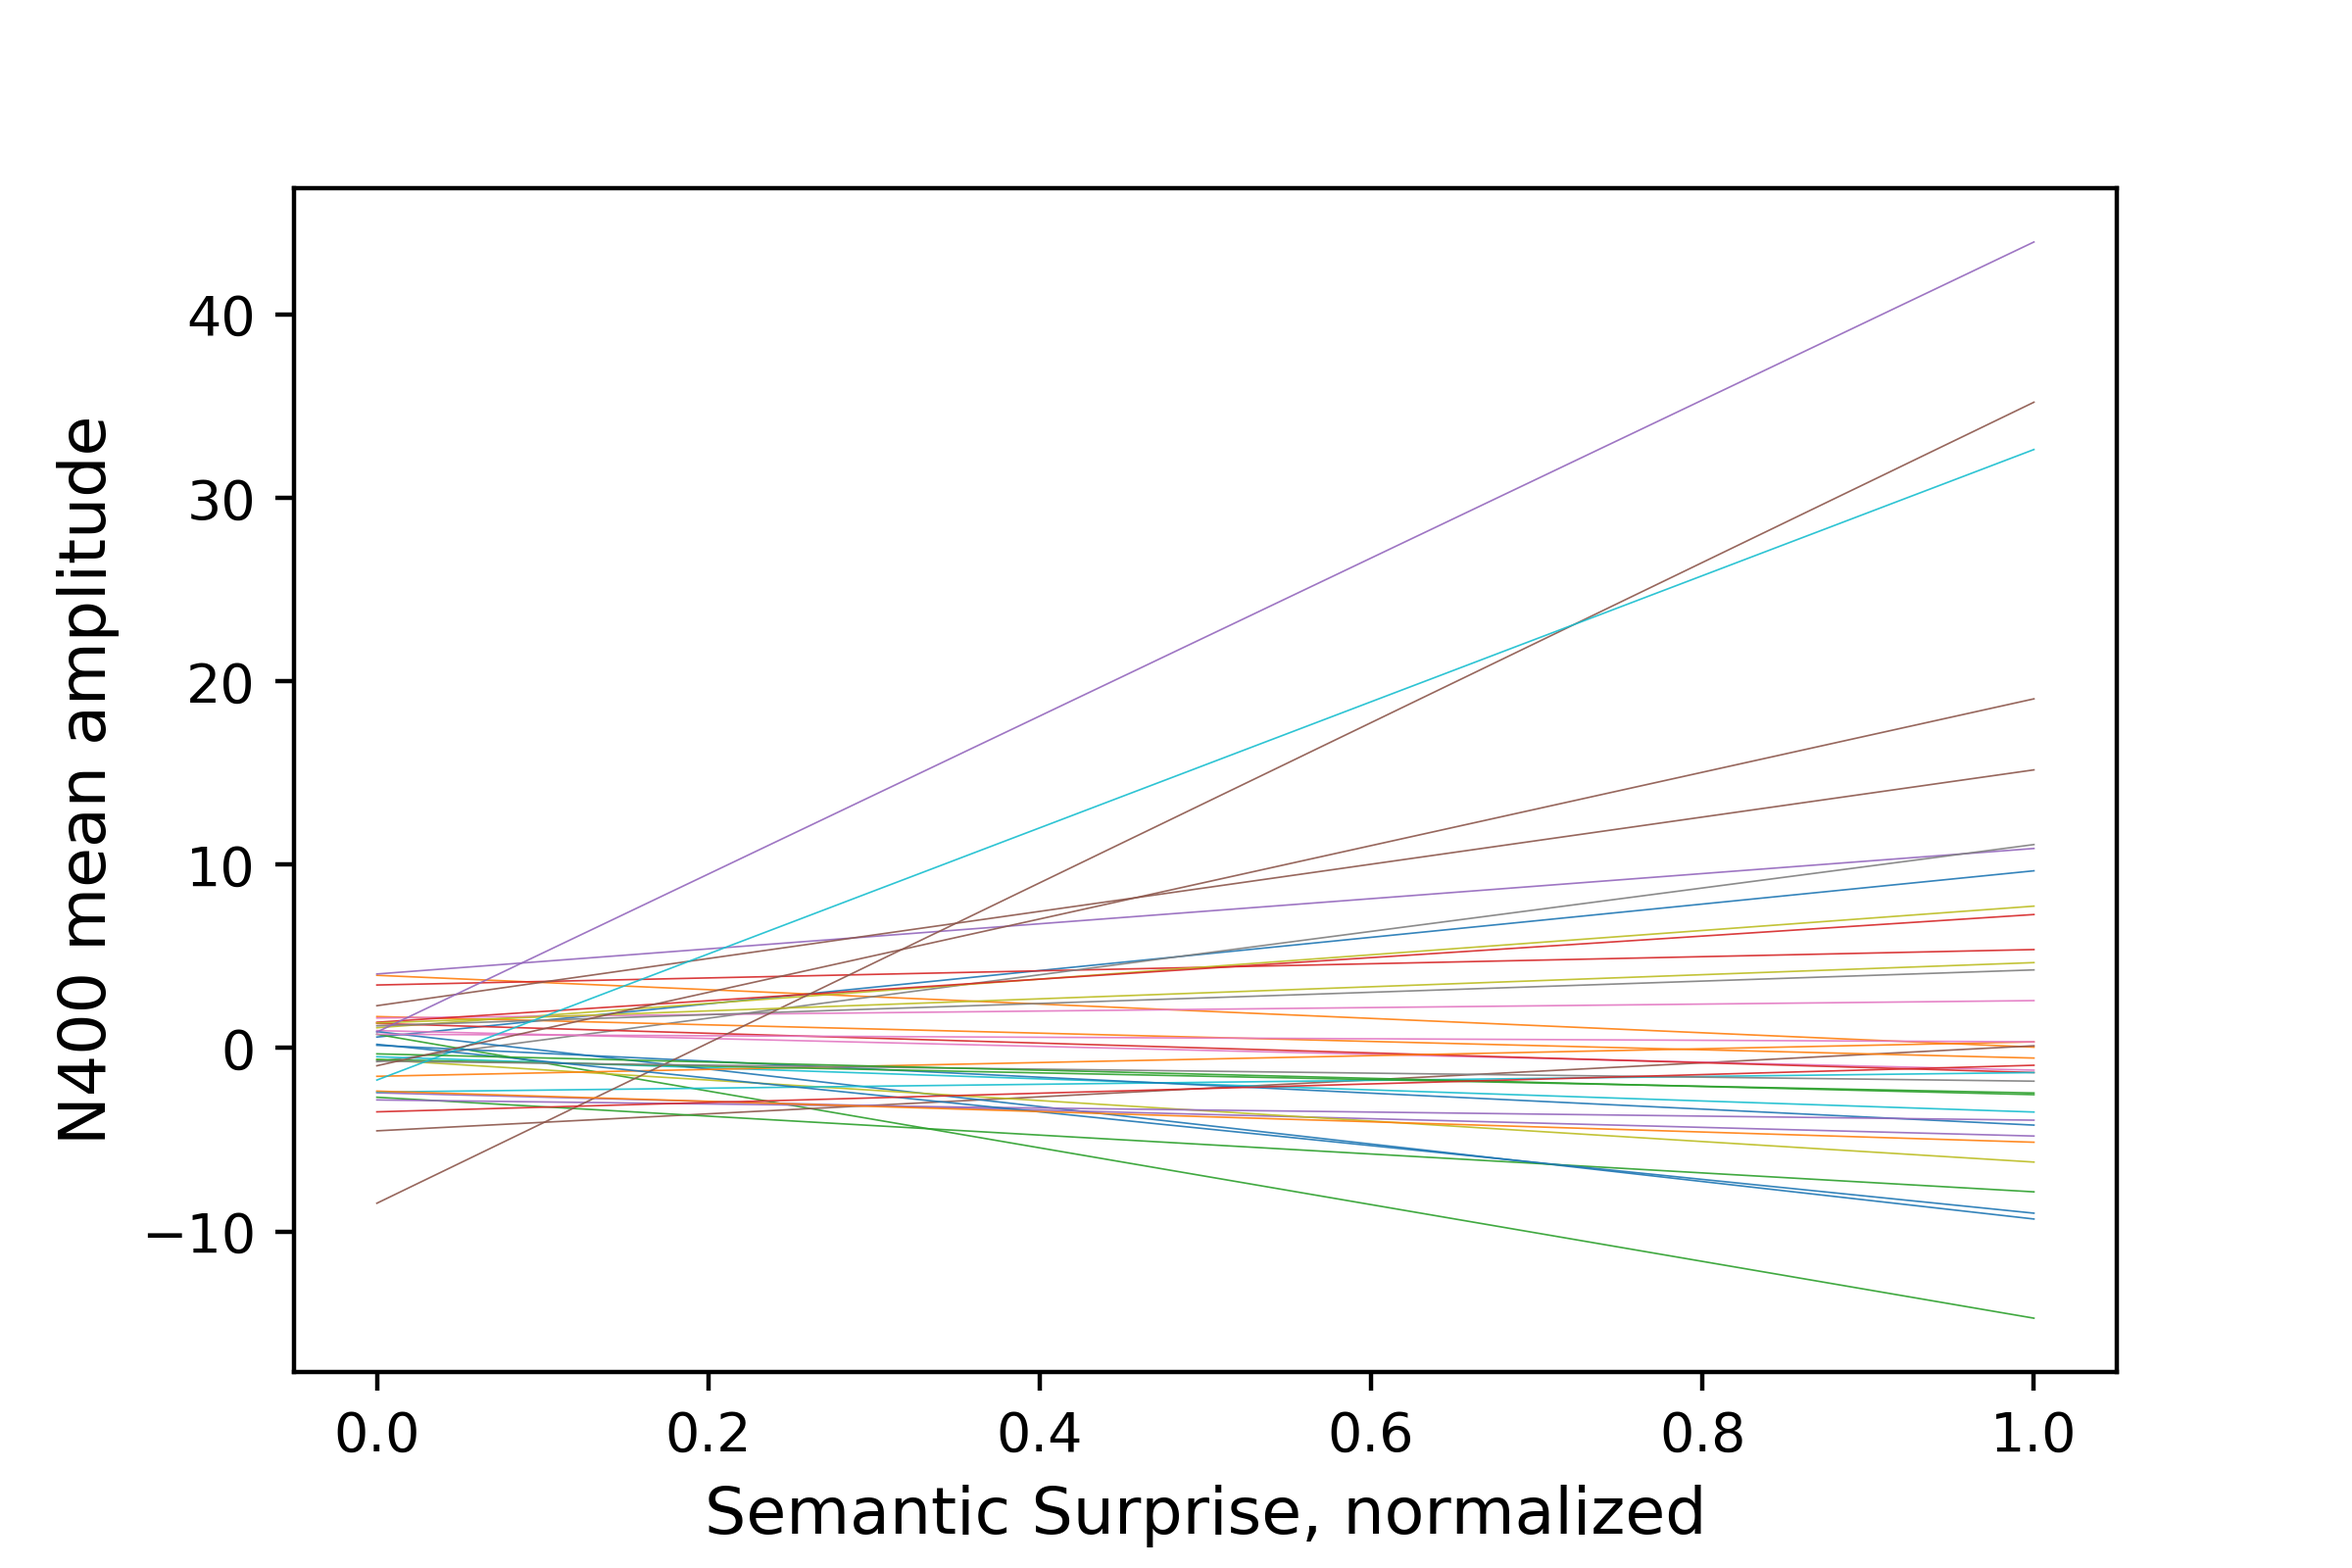
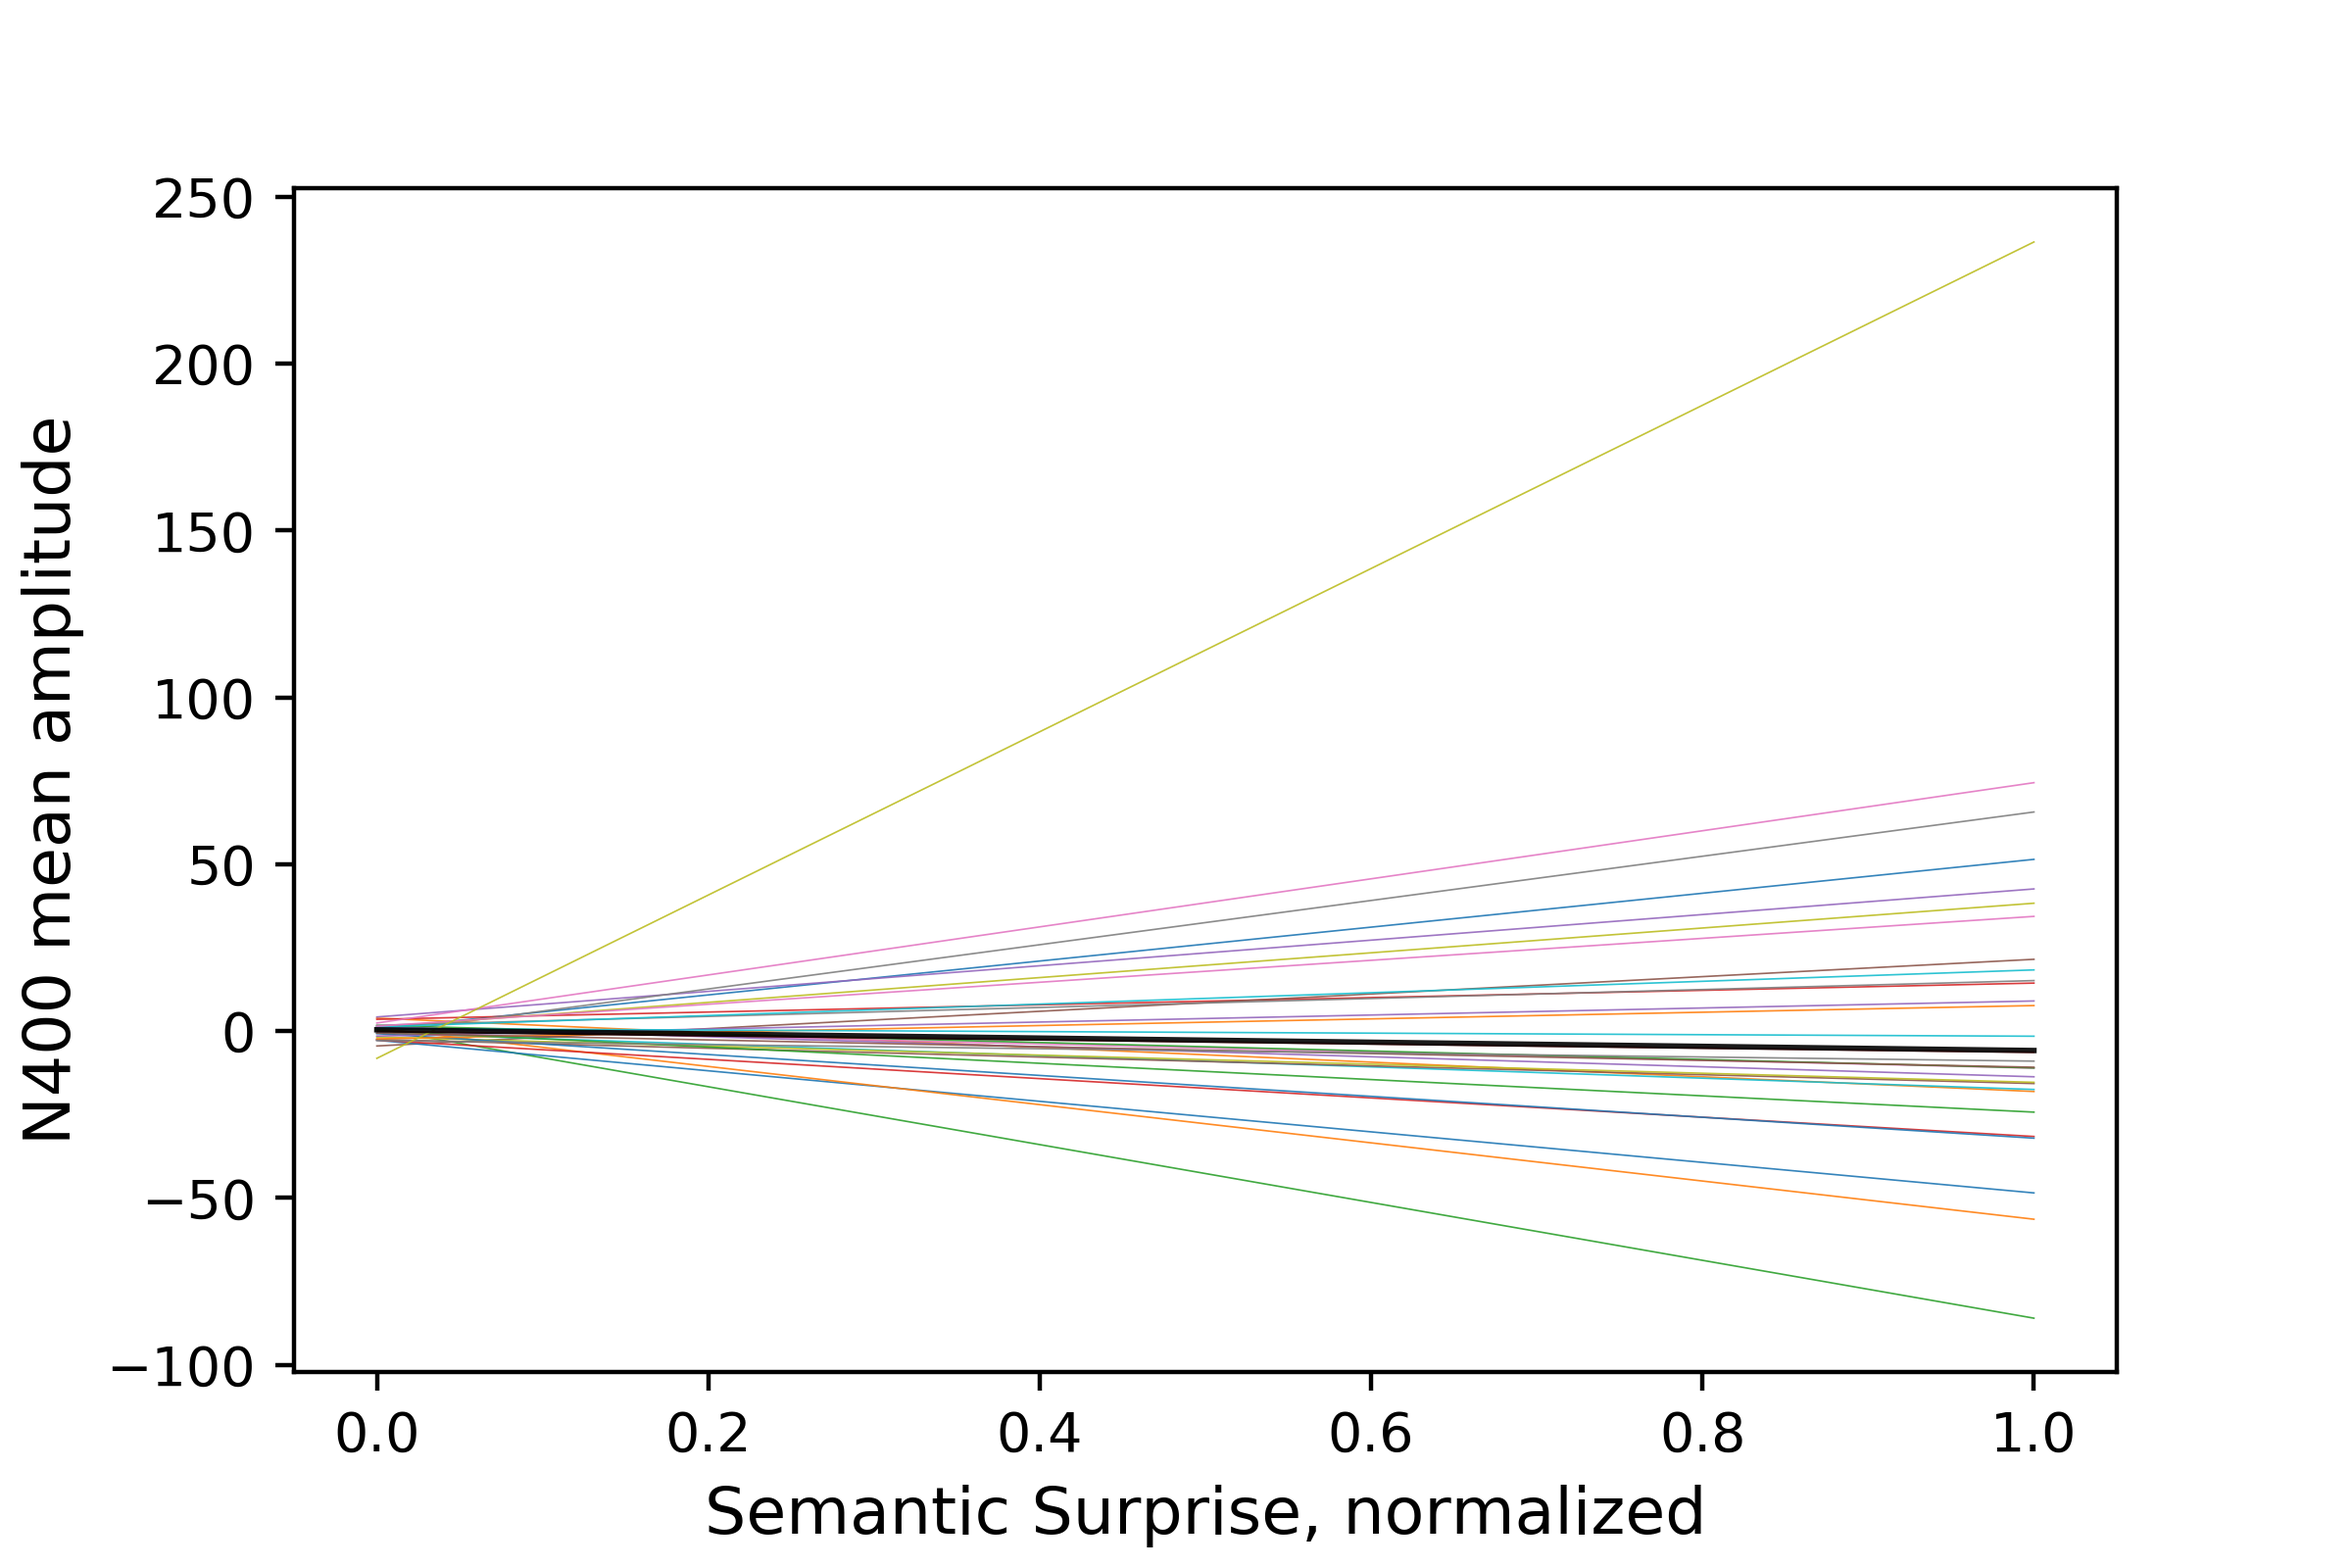
minor changes

diff --git a/plot_firstlevel.py b/plot_firstlevel.py
@@ -29,6 +29,14 @@ plt.hist(data.values[:, 3], bins=50)  # arguments are passed to np.histogram
 plt.xlabel("Tau", fontsize=12)
 plt.savefig('tauplot.png', dpi=400)
 
+plt.close()
+
+# Compute mean and median of slope and intercept
+slopemedian = np.median(data.regr_slope)
+slopemean = np.mean(data.regr_slope)
+interceptmedian = np.median(data.regr_intercept)
+interceptmean = np.mean(data.regr_intercept)
+
 
 # Plot regression lines for each participant
 for row in range(0, len(data)):
@@ -37,6 +45,12 @@ for row in range(0, len(data)):
     x = np.array([0,1])
     # plot fit
     plt.plot(x, f(x), marker='', linewidth=0.3, alpha=0.9)
+    
+f = lambda x: slopemedian*x + interceptmedian
+# x values of line to plot
+x = np.array([0,1])
+# plot fit
+plt.plot(x, f(x), marker='', c="black", linewidth=1, alpha=0.9)
     
 plt.xlabel("Semantic Surprise, normalized", fontsize=12)
 plt.ylabel("N400 mean amplitude", fontsize=12)

diff --git a/Modeling.py b/Modeling.py
@@ -16,7 +16,7 @@ os.chdir("/Users/ringelblume/Desktop/GitHub/Bayesian_Modeling/")
 
 firstlevel = pd.DataFrame(columns=['subject', 'minutes_elapsed', 'cost_function', 'optimal_tau', 'regr_slope', 'regr_intercept'])
 
-for sub in range(1,41):
+for sub in range(31,41):
     
     starttime = time.time() # Check time
     
